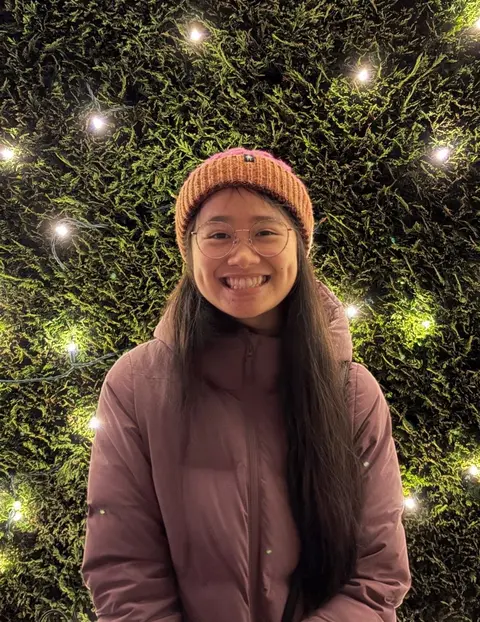
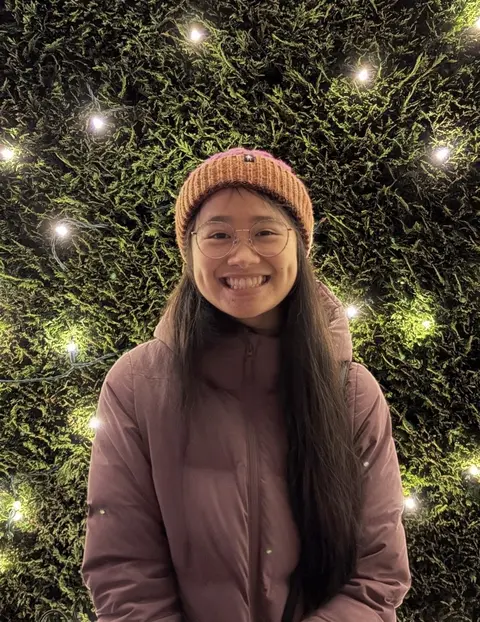
Deploying to gh-pages from @ danielletsao/danielletsao.github.io@e90b4efd8ca80e3e8a7e9d3815541e2608d1c410 🚀

diff --git a/blog/2024/tabs/index.html b/blog/2024/tabs/index.html
@@ -155,16 +155,16 @@ Content 2
 <span class="cp">{%</span><span class="w"> </span><span class="nt">endtab</span><span class="w"> </span><span class="cp">%}</span>
 
 <span class="cp">{%</span><span class="w"> </span><span class="nt">endtabs</span><span class="w"> </span><span class="cp">%}</span>
-</code></pre></div></div> <p>With this you can generate visualizations like:</p> <ul id="log" class="tab" data-tab="56ad38c9-7aea-4d3a-aec8-bfe3dacc15b6" data-name="log"> <li class="active" id="log-php"> <a href="#">php </a> </li> <li id="log-js"> <a href="#">js </a> </li> <li id="log-ruby"> <a href="#">ruby </a> </li> </ul> <ul class="tab-content" id="56ad38c9-7aea-4d3a-aec8-bfe3dacc15b6" data-name="log"> <li class="active"> <div class="language-php highlighter-rouge"><div class="highlight"><pre class="highlight"><code><span class="nb">var_dump</span><span class="p">(</span><span class="s1">'hello'</span><span class="p">);</span>
+</code></pre></div></div> <p>With this you can generate visualizations like:</p> <ul id="log" class="tab" data-tab="a2ebcd95-d038-43e0-b0c2-5c607ab851ac" data-name="log"> <li class="active" id="log-php"> <a href="#">php </a> </li> <li id="log-js"> <a href="#">js </a> </li> <li id="log-ruby"> <a href="#">ruby </a> </li> </ul> <ul class="tab-content" id="a2ebcd95-d038-43e0-b0c2-5c607ab851ac" data-name="log"> <li class="active"> <div class="language-php highlighter-rouge"><div class="highlight"><pre class="highlight"><code><span class="nb">var_dump</span><span class="p">(</span><span class="s1">'hello'</span><span class="p">);</span>
 </code></pre></div></div> </li> <li> <div class="language-javascript highlighter-rouge"><div class="highlight"><pre class="highlight"><code><span class="nx">console</span><span class="p">.</span><span class="nf">log</span><span class="p">(</span><span class="dl">"</span><span class="s2">hello</span><span class="dl">"</span><span class="p">);</span>
 </code></pre></div></div> </li> <li> <div class="language-javascript highlighter-rouge"><div class="highlight"><pre class="highlight"><code><span class="nx">pputs</span> <span class="dl">'</span><span class="s1">hello</span><span class="dl">'</span>
-</code></pre></div></div> </li> </ul> <h2 id="another-example">Another example</h2> <ul id="data-struct" class="tab" data-tab="f5c231ce-ee31-45bc-b706-ba9f0593c172" data-name="data-struct"> <li class="active" id="data-struct-yaml"> <a href="#">yaml </a> </li> <li id="data-struct-json"> <a href="#">json </a> </li> </ul> <ul class="tab-content" id="f5c231ce-ee31-45bc-b706-ba9f0593c172" data-name="data-struct"> <li class="active"> <div class="language-yaml highlighter-rouge"><div class="highlight"><pre class="highlight"><code><span class="na">hello</span><span class="pi">:</span>
+</code></pre></div></div> </li> </ul> <h2 id="another-example">Another example</h2> <ul id="data-struct" class="tab" data-tab="178b1c06-04bd-4eb8-803a-47ad1c7b5353" data-name="data-struct"> <li class="active" id="data-struct-yaml"> <a href="#">yaml </a> </li> <li id="data-struct-json"> <a href="#">json </a> </li> </ul> <ul class="tab-content" id="178b1c06-04bd-4eb8-803a-47ad1c7b5353" data-name="data-struct"> <li class="active"> <div class="language-yaml highlighter-rouge"><div class="highlight"><pre class="highlight"><code><span class="na">hello</span><span class="pi">:</span>
   <span class="pi">-</span> <span class="s2">"</span><span class="s">whatsup"</span>
   <span class="pi">-</span> <span class="s2">"</span><span class="s">hi"</span>
 </code></pre></div></div> </li> <li> <div class="language-json highlighter-rouge"><div class="highlight"><pre class="highlight"><code><span class="p">{</span><span class="w">
   </span><span class="nl">"hello"</span><span class="p">:</span><span class="w"> </span><span class="p">[</span><span class="s2">"whatsup"</span><span class="p">,</span><span class="w"> </span><span class="s2">"hi"</span><span class="p">]</span><span class="w">
 </span><span class="p">}</span><span class="w">
-</span></code></pre></div></div> </li> </ul> <h2 id="tabs-for-something-else">Tabs for something else</h2> <ul id="something-else" class="tab" data-tab="1eaf65a7-d44e-48f6-ad13-0abd992ffd67" data-name="something-else"> <li class="active" id="something-else-text"> <a href="#">text </a> </li> <li id="something-else-quote"> <a href="#">quote </a> </li> <li id="something-else-list"> <a href="#">list </a> </li> </ul> <ul class="tab-content" id="1eaf65a7-d44e-48f6-ad13-0abd992ffd67" data-name="something-else"> <li class="active"> <p>Regular text</p> </li> <li> <blockquote> <p>A quote</p> </blockquote> </li> <li> <p>Hipster list</p> <ul> <li>brunch</li> <li>fixie</li> <li>raybans</li> <li>messenger bag</li> </ul> </li> </ul> </div> </article> <br> <hr> <br> <h2 class="text-3xl font-semibold mb-4 mt-12">Enjoy Reading This Article?</h2> <p class="mb-2">Here are some more articles you might like to read next:</p> <ul class="list-disc pl-7 my-3 space-y-2 marker:text-[var(--global-theme-color)]"> <li class="leading-relaxed"> <a class="underline decoration-1 hover:text-[var(--global-hover-color)]" href="https://blog.google/technology/ai/google-gemini-update-flash-ai-assistant-io-2024/" target="_blank" rel="noopener noreferrer">Google Gemini updates: Flash 1.5, Gemma 2 and Project Astra</a> <svg width="1rem" height="1rem" viewbox="0 0 30 30" xmlns="http://www.w3.org/2000/svg" aria-hidden="true"> <path d="M17 13.5v6H5v-12h6m3-3h6v6m0-6-9 9" class="icon_svg-stroke" stroke="#999" stroke-width="1.5" fill="none" fill-rule="evenodd" stroke-linecap="round" stroke-linejoin="round"></path> </svg> </li> <li class="leading-relaxed"> <a class="underline decoration-1 hover:text-[var(--global-hover-color)]" href="https://medium.com/@al-folio/displaying-external-posts-on-your-al-folio-blog-b60a1d241a0a?source=rss-17feae71c3c4------2" target="_blank" rel="noopener noreferrer">Displaying External Posts on Your al-folio Blog</a> <svg width="1rem" height="1rem" viewbox="0 0 30 30" xmlns="http://www.w3.org/2000/svg" aria-hidden="true"> <path d="M17 13.5v6H5v-12h6m3-3h6v6m0-6-9 9" class="icon_svg-stroke" stroke="#999" stroke-width="1.5" fill="none" fill-rule="evenodd" stroke-linecap="round" stroke-linejoin="round"></path> </svg> </li> <li class="leading-relaxed"> <a class="underline decoration-1 hover:text-[var(--global-hover-color)]" href="/blog/2025/plotly/">a post with plotly.js</a> </li> <li class="leading-relaxed"> <a class="underline decoration-1 hover:text-[var(--global-hover-color)]" href="/blog/2024/photo-gallery/">a post with image galleries</a> </li> <li class="leading-relaxed"> <a class="underline decoration-1 hover:text-[var(--global-hover-color)]" href="/blog/2024/typograms/">a post with typograms</a> </li> <li class="leading-relaxed"> <a class="underline decoration-1 hover:text-[var(--global-hover-color)]" href="/blog/2024/post-citation/">a post that can be cited</a> </li> <li class="leading-relaxed"> <a class="underline decoration-1 hover:text-[var(--global-hover-color)]" href="/blog/2024/pseudocode/">a post with pseudo code</a> </li> <li class="leading-relaxed"> <a class="underline decoration-1 hover:text-[var(--global-hover-color)]" href="/blog/2024/code-diff/">a post with code diff</a> </li> <li class="leading-relaxed"> <a class="underline decoration-1 hover:text-[var(--global-hover-color)]" href="/blog/2024/advanced-images/">a post with advanced image components</a> </li> <li class="leading-relaxed"> <a class="underline decoration-1 hover:text-[var(--global-hover-color)]" href="/blog/2024/vega-lite/">a post with vega lite</a> </li> </ul> </div> </div> <footer class="fixed-bottom" role="contentinfo"> <div class="container mt-0"> © Copyright 2026 Danielle Tsao. Powered by <a href="https://jekyllrb.com/" target="_blank" rel="external nofollow noopener">Jekyll</a> with <a href="https://github.com/alshedivat/al-folio" rel="external nofollow noopener" target="_blank">al-folio</a> theme. Hosted by <a href="https://pages.github.com/" target="_blank" rel="external nofollow noopener">GitHub Pages</a>. </div> </footer> <script>
+</span></code></pre></div></div> </li> </ul> <h2 id="tabs-for-something-else">Tabs for something else</h2> <ul id="something-else" class="tab" data-tab="e79c544c-c5e1-4ed5-b9d2-821a935afb53" data-name="something-else"> <li class="active" id="something-else-text"> <a href="#">text </a> </li> <li id="something-else-quote"> <a href="#">quote </a> </li> <li id="something-else-list"> <a href="#">list </a> </li> </ul> <ul class="tab-content" id="e79c544c-c5e1-4ed5-b9d2-821a935afb53" data-name="something-else"> <li class="active"> <p>Regular text</p> </li> <li> <blockquote> <p>A quote</p> </blockquote> </li> <li> <p>Hipster list</p> <ul> <li>brunch</li> <li>fixie</li> <li>raybans</li> <li>messenger bag</li> </ul> </li> </ul> </div> </article> <br> <hr> <br> <h2 class="text-3xl font-semibold mb-4 mt-12">Enjoy Reading This Article?</h2> <p class="mb-2">Here are some more articles you might like to read next:</p> <ul class="list-disc pl-7 my-3 space-y-2 marker:text-[var(--global-theme-color)]"> <li class="leading-relaxed"> <a class="underline decoration-1 hover:text-[var(--global-hover-color)]" href="https://blog.google/technology/ai/google-gemini-update-flash-ai-assistant-io-2024/" target="_blank" rel="noopener noreferrer">Google Gemini updates: Flash 1.5, Gemma 2 and Project Astra</a> <svg width="1rem" height="1rem" viewbox="0 0 30 30" xmlns="http://www.w3.org/2000/svg" aria-hidden="true"> <path d="M17 13.5v6H5v-12h6m3-3h6v6m0-6-9 9" class="icon_svg-stroke" stroke="#999" stroke-width="1.5" fill="none" fill-rule="evenodd" stroke-linecap="round" stroke-linejoin="round"></path> </svg> </li> <li class="leading-relaxed"> <a class="underline decoration-1 hover:text-[var(--global-hover-color)]" href="https://medium.com/@al-folio/displaying-external-posts-on-your-al-folio-blog-b60a1d241a0a?source=rss-17feae71c3c4------2" target="_blank" rel="noopener noreferrer">Displaying External Posts on Your al-folio Blog</a> <svg width="1rem" height="1rem" viewbox="0 0 30 30" xmlns="http://www.w3.org/2000/svg" aria-hidden="true"> <path d="M17 13.5v6H5v-12h6m3-3h6v6m0-6-9 9" class="icon_svg-stroke" stroke="#999" stroke-width="1.5" fill="none" fill-rule="evenodd" stroke-linecap="round" stroke-linejoin="round"></path> </svg> </li> <li class="leading-relaxed"> <a class="underline decoration-1 hover:text-[var(--global-hover-color)]" href="/blog/2025/plotly/">a post with plotly.js</a> </li> <li class="leading-relaxed"> <a class="underline decoration-1 hover:text-[var(--global-hover-color)]" href="/blog/2024/photo-gallery/">a post with image galleries</a> </li> <li class="leading-relaxed"> <a class="underline decoration-1 hover:text-[var(--global-hover-color)]" href="/blog/2024/typograms/">a post with typograms</a> </li> <li class="leading-relaxed"> <a class="underline decoration-1 hover:text-[var(--global-hover-color)]" href="/blog/2024/post-citation/">a post that can be cited</a> </li> <li class="leading-relaxed"> <a class="underline decoration-1 hover:text-[var(--global-hover-color)]" href="/blog/2024/pseudocode/">a post with pseudo code</a> </li> <li class="leading-relaxed"> <a class="underline decoration-1 hover:text-[var(--global-hover-color)]" href="/blog/2024/code-diff/">a post with code diff</a> </li> <li class="leading-relaxed"> <a class="underline decoration-1 hover:text-[var(--global-hover-color)]" href="/blog/2024/advanced-images/">a post with advanced image components</a> </li> <li class="leading-relaxed"> <a class="underline decoration-1 hover:text-[var(--global-hover-color)]" href="/blog/2024/vega-lite/">a post with vega lite</a> </li> </ul> </div> </div> <footer class="fixed-bottom" role="contentinfo"> <div class="container mt-0"> © Copyright 2026 Danielle Tsao. Powered by <a href="https://jekyllrb.com/" target="_blank" rel="external nofollow noopener">Jekyll</a> with <a href="https://github.com/alshedivat/al-folio" rel="external nofollow noopener" target="_blank">al-folio</a> theme. Hosted by <a href="https://pages.github.com/" target="_blank" rel="external nofollow noopener">GitHub Pages</a>. </div> </footer> <script>
   window.alFolio = {
     compatBootstrap: false
   };

diff --git a/index.html b/index.html
@@ -184,7 +184,7 @@
       text-align: center;
     }
   }
-</style> <article class="about-article" style="min-height: 70vh; display: flex; align-items: center; justify-content: center;"> <div style="width: 100%;"> <div class="about-row"> <div class="profile about-image"> <figure> <picture> <source class="responsive-img-srcset" srcset="/assets/img/pic-480.webp 480w,/assets/img/pic-800.webp 800w,/assets/img/pic-1400.webp 1400w," type="image/webp" sizes="(min-width: 930px) 270.0px, (min-width: 576px) 30vw, 95vw"> <img src="/assets/img/pic.jpg?v=883c7d4d96673271af8a0fa817875d72" class="img-fluid z-depth-1 rounded" width="100%" height="auto" alt="pic.jpg" loading="eager" onerror="this.onerror=null; document.querySelectorAll('.responsive-img-srcset').forEach(function (n) { n.remove(); });"> </source></picture> </figure> </div> <div class="about-text"> <h2 id="hi-im-danielle">Hi, I’m Danielle.</h2> <p><br> I am a fourth year PhD student in Statistics at the University of Washington, advised by Ema Perković. I am interested in causal inference problems about aggregation, instrumental variables, and sensitivity analyses.</p> <p><br> You can reach me at dltsao [at] uw [dot] edu. <a href="https://github.com/danielletsao" target="_blank" rel="noopener noreferrer" style="color: var(--global-text-color); margin-left: 0.4rem; font-size: 1.5rem;"><i class="fa-brands fa-github"></i></a><a href="https://scholar.google.com/citations?user=pPMkpakAAAAJ" target="_blank" rel="noopener noreferrer" style="color: var(--global-text-color); margin-left: 0.15rem; font-size: 1.4rem;"><i class="ai ai-google-scholar"></i></a></p> </div> </div> </div> </article> </div> <footer class="fixed-bottom" role="contentinfo"> <div class="container mt-0"> © Copyright 2026 Danielle Tsao. Powered by <a href="https://jekyllrb.com/" target="_blank" rel="external nofollow noopener">Jekyll</a> with <a href="https://github.com/alshedivat/al-folio" rel="external nofollow noopener" target="_blank">al-folio</a> theme. Hosted by <a href="https://pages.github.com/" target="_blank" rel="external nofollow noopener">GitHub Pages</a>. </div> </footer> <script>
+</style> <article class="about-article" style="min-height: 70vh; display: flex; align-items: center; justify-content: center;"> <div style="width: 100%;"> <div class="about-row"> <div class="profile about-image"> <figure> <picture> <source class="responsive-img-srcset" srcset="/assets/img/pic-480.webp 480w,/assets/img/pic-800.webp 800w,/assets/img/pic-1400.webp 1400w," type="image/webp" sizes="(min-width: 930px) 270.0px, (min-width: 576px) 30vw, 95vw"> <img src="/assets/img/pic.jpg?v=a6f76e086912f4258cf110f9a904fa8d" class="img-fluid z-depth-1 rounded" width="100%" height="auto" alt="pic.jpg" loading="eager" onerror="this.onerror=null; document.querySelectorAll('.responsive-img-srcset').forEach(function (n) { n.remove(); });"> </source></picture> </figure> </div> <div class="about-text"> <h2 id="hi-im-danielle">Hi, I’m Danielle.</h2> <p><br> I am a fourth year PhD student in Statistics at the University of Washington, advised by Ema Perković. I am interested in causal inference problems about aggregation, instrumental variables, and sensitivity analyses.</p> <p><br> You can reach me at dltsao [at] uw [dot] edu. <a href="https://github.com/danielletsao" target="_blank" rel="noopener noreferrer" style="color: var(--global-text-color); margin-left: 0.4rem; font-size: 1.5rem;"><i class="fa-brands fa-github"></i></a><a href="https://scholar.google.com/citations?user=pPMkpakAAAAJ" target="_blank" rel="noopener noreferrer" style="color: var(--global-text-color); margin-left: 0.15rem; font-size: 1.4rem;"><i class="ai ai-google-scholar"></i></a></p> </div> </div> </div> </article> </div> <footer class="fixed-bottom" role="contentinfo"> <div class="container mt-0"> © Copyright 2026 Danielle Tsao. Powered by <a href="https://jekyllrb.com/" target="_blank" rel="external nofollow noopener">Jekyll</a> with <a href="https://github.com/alshedivat/al-folio" rel="external nofollow noopener" target="_blank">al-folio</a> theme. Hosted by <a href="https://pages.github.com/" target="_blank" rel="external nofollow noopener">GitHub Pages</a>. </div> </footer> <script>
   window.alFolio = {
     compatBootstrap: false
   };

diff --git a/assets/jupyter/blog.ipynb.html b/assets/jupyter/blog.ipynb.html
@@ -1,4 +1,4 @@
-<!DOCTYPE html> <html lang="en"> <head><meta charset="utf-8"/> <meta content="width=device-width, initial-scale=1.0" name="viewport"/> <title>jekyll-jupyter-notebook20260813-3424-ah9ul5</title><script src="https://cdnjs.cloudflare.com/ajax/libs/require.js/2.1.10/require.min.js"></script> <style type="text/css">
+<!DOCTYPE html> <html lang="en"> <head><meta charset="utf-8"/> <meta content="width=device-width, initial-scale=1.0" name="viewport"/> <title>jekyll-jupyter-notebook20260813-3422-ne0jp4</title><script src="https://cdnjs.cloudflare.com/ajax/libs/require.js/2.1.10/require.min.js"></script> <style type="text/css">
     pre { line-height: 125%; }
 td.linenos .normal { color: inherit; background-color: transparent; padding-left: 5px; padding-right: 5px; }
 span.linenos { color: inherit; background-color: transparent; padding-left: 5px; padding-right: 5px; }
